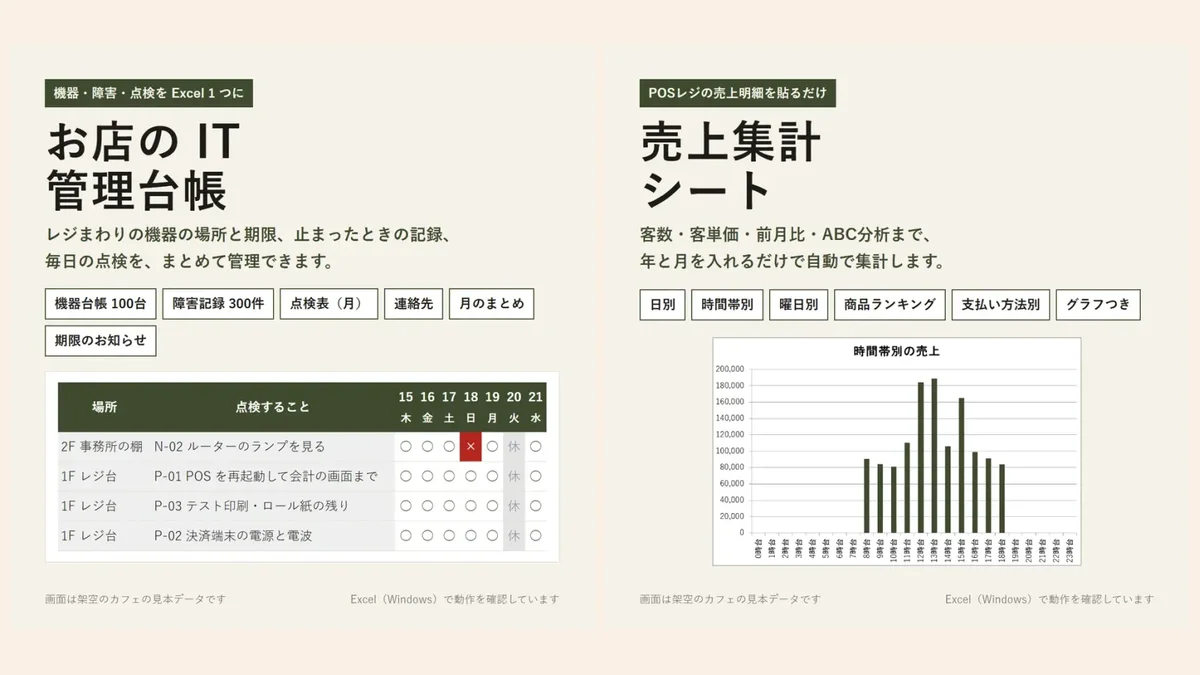
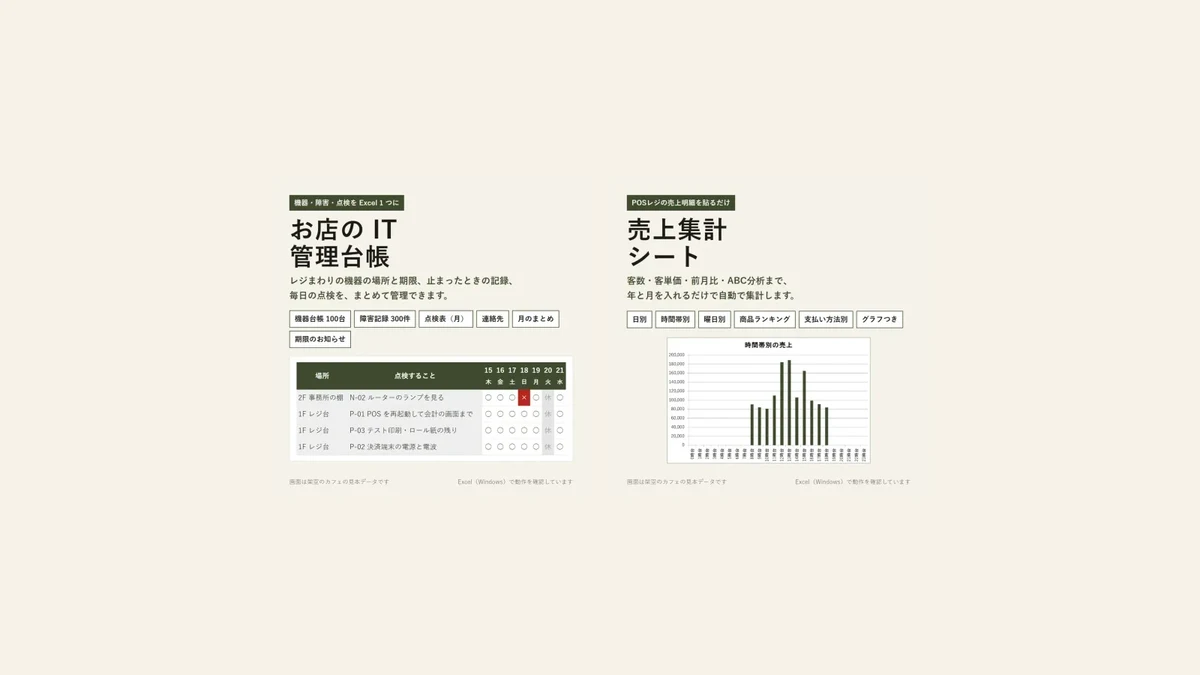
カテゴリー「お店の数字と管理（Excel・CSV）」を追加して関係する記事を移し、トップに Excel テンプレートの案内カードを足す。テンプレート紹介記事の画像を、記事一覧で切れない配置に直す

diff --git a/app/page.js b/app/page.js
@@ -152,9 +152,9 @@ export default function Home() {
         </section>
       )}
 
-      {/* 作業代行と AI相談デスクの案内：絵つきのカードを 2 枚並べる（それぞれ受付先があるときだけ） */}
-      {(SERVICES_OPEN || SITE.consultFormUrl) && (
-        <section className="home-guide" aria-label="作業代行と無料相談のご案内">
+      {/* 作業代行・Excel テンプレート・AI相談デスクの案内：絵つきのカードを並べる（作業代行と相談は受付先があるときだけ） */}
+      {(
+        <section className="home-guide" aria-label="作業代行・Excel テンプレート・無料相談のご案内">
           {SERVICES_OPEN && (
             <Link href="/services" className="home-guide-card home-guide-services">
               {/* eslint-disable-next-line @next/next/no-img-element -- Static Export のため next/image の最適化は使わない */}
@@ -167,6 +167,16 @@ export default function Home() {
               </span>
             </Link>
           )}
+          <Link href="/templates" className="home-guide-card">
+            {/* eslint-disable-next-line @next/next/no-img-element -- Static Export のため next/image の最適化は使わない */}
+            <img src="/images/home-templates.webp" width="800" height="574" alt="" loading="lazy" />
+            <span className="home-guide-body">
+              <span className="home-guide-label">運営者の Excel テンプレート（BOOTH で販売）</span>
+              <span className="home-guide-title">お店の IT 管理台帳・売上集計シート</span>
+              <span className="home-guide-text">機器と保証期限・障害記録・点検表をまとめる台帳と、POSレジの売上明細を貼るだけで集計するシート。マクロなしの数式だけで動きます。</span>
+              <span className="home-guide-button">中身と使い方を見る →</span>
+            </span>
+          </Link>
           {SITE.consultFormUrl && (
             <Link href="/consult" className="home-guide-card">
               {/* eslint-disable-next-line @next/next/no-img-element -- Static Export のため next/image の最適化は使わない */}

diff --git a/app/globals.css b/app/globals.css
@@ -26,6 +26,7 @@
   --thumb-apparel: #e6e1ef;
   --thumb-industries: #ece6d0;
   --thumb-devices: #dfe5ee;
+  --thumb-management: #dcebe6;
 }
 
 /* ダークモードの端末でも、いつも明るい色で表示する（ブランドの画像・OGP 画像と色をそろえる） */
@@ -478,6 +479,7 @@ a:focus-visible, button:focus-visible, summary:focus-visible { outline: 3px soli
 .thumb-apparel { background: var(--thumb-apparel); }
 .thumb-industries { background: var(--thumb-industries); }
 .thumb-devices { background: var(--thumb-devices); }
+.thumb-management { background: var(--thumb-management); }
 .thumb-label { font-size: 0.75rem; font-weight: 800; letter-spacing: 0.2em; }
 .thumb-headline { font-size: 1.15rem; font-weight: 800; line-height: 1.5; font-feature-settings: "palt"; word-break: auto-phrase; text-wrap: balance; }
 .thumb-category { font-size: 0.75rem; font-weight: 700; color: var(--muted); }
@@ -1139,6 +1141,7 @@ a:focus-visible, button:focus-visible, summary:focus-visible { outline: 3px soli
 .category-tabs li:nth-child(4) .category-tab { background: var(--thumb-apparel); }
 .category-tabs li:nth-child(5) .category-tab { background: var(--thumb-industries); }
 .category-tabs li:nth-child(6) .category-tab { background: var(--thumb-devices); }
+.category-tabs li:nth-child(7) .category-tab { background: var(--thumb-management); }
 .category-tab[aria-current='page'] { border: 2px solid var(--border); padding: 7px 13px; box-shadow: 3px 3px 0 var(--border); }
 .category-tab-count { font-size: 0.75rem; font-weight: 600; color: var(--muted); }
 .category-tab-search { background: var(--bg); border-style: dashed; }

diff --git a/lib/site.js b/lib/site.js
@@ -66,6 +66,7 @@ export const CATEGORIES = {
   apparel: 'アパレル・雑貨店向け',
   industries: 'いろいろな業種のPOSレジ',
   devices: '周辺機器の選び方（共通）',
+  management: 'お店の数字と管理（Excel・CSV）',
 };
 
 // サムネイルに出す英字ラベル（色は globals.css の .thumb-<slug> で指定）
@@ -76,6 +77,7 @@ export const CATEGORY_LABELS = {
   apparel: 'APPAREL',
   industries: 'INDUSTRIES',
   devices: 'DEVICES',
+  management: 'DATA & SHEETS',
 };
 
 // カテゴリーの説明文（トップページとカテゴリー一覧に表示）
@@ -86,6 +88,7 @@ export const CATEGORY_DESCRIPTIONS = {
   apparel: 'アパレル・雑貨店向けのPOSレジ比較と、ディスプレイラックなど売り場づくりの備品の選び方を解説します。',
   industries: '接骨院・歯科医院・ホテル・ジム・リサイクルショップ・農産物直売所など、いろいろな業種で、普通のレジからPOSレジに替えると良くなることと、合わない場面を解説します。',
   devices: 'レシートプリンター・キャッシュドロア・バーコードリーダーなど、業種を問わず使う周辺機器の選び方です。',
+  management: 'レジ締め・売上の集計・勤怠・商品データの CSV など、お店の数字と記録を Excel や表で管理する方法と、運営者の Excel テンプレートを紹介します。',
 };
 
 // サイトマップの「目的から探す」。記事の slug を目的ごとにまとめる（存在しない slug は表示されない）

diff --git a/components/ThemeBackground.js b/components/ThemeBackground.js
@@ -53,6 +53,7 @@ const CATEGORY_ICONS = {
   'kitchen-car': ['foodtruck', 'hotdog', 'pizza', 'burger', 'truck', 'sign'],
   apparel: ['shirt', 'bag', 'pouch', 'hanger', 'store'],
   devices: ['receipt', 'tablet'],
+  management: ['receipt', 'coin', 'tablet'],
 };
 
 // 記事のテーマ（slug・タグに含まれる言葉）→ 追加するモチーフ

diff --git a/content/posts/shop-excel-templates.md b/content/posts/shop-excel-templates.md
@@ -2,8 +2,8 @@
 title: お店の IT 管理台帳と売上集計シート｜運営者が作った Excel テンプレートの紹介
 date: 2026-11-09
 publishedAt: 2026-11-09T23:55
-category: devices
-order: 50
+category: management
+order: 1
 tags: [Excelテンプレート, IT管理台帳, 売上集計, レジ締め, 点検表, ABC分析]
 ownTemplates: [ledger, sales]
 description: 運営者が BOOTH で販売している Excel テンプレート「お店の IT 管理台帳」と「売上集計シート」の中身と使い方、動作環境、合わないかもしれない人をまとめました。どちらもマクロなしの数式だけで動きます。

diff --git a/content/posts/register-closing-checklist.md b/content/posts/register-closing-checklist.md
@@ -2,8 +2,8 @@
 title: レジ締めチェック表（無料）｜印刷用PDFとExcel版の使い方
 date: 2026-10-30
 publishedAt: 2026-10-30T07:40
-category: devices
-order: 28
+category: management
+order: 2
 tags: [レジ締め, 現金管理, チェック表, 無料ダウンロード, POSレジ]
 ownServices: [manual]
 ownTemplates: [sales]
